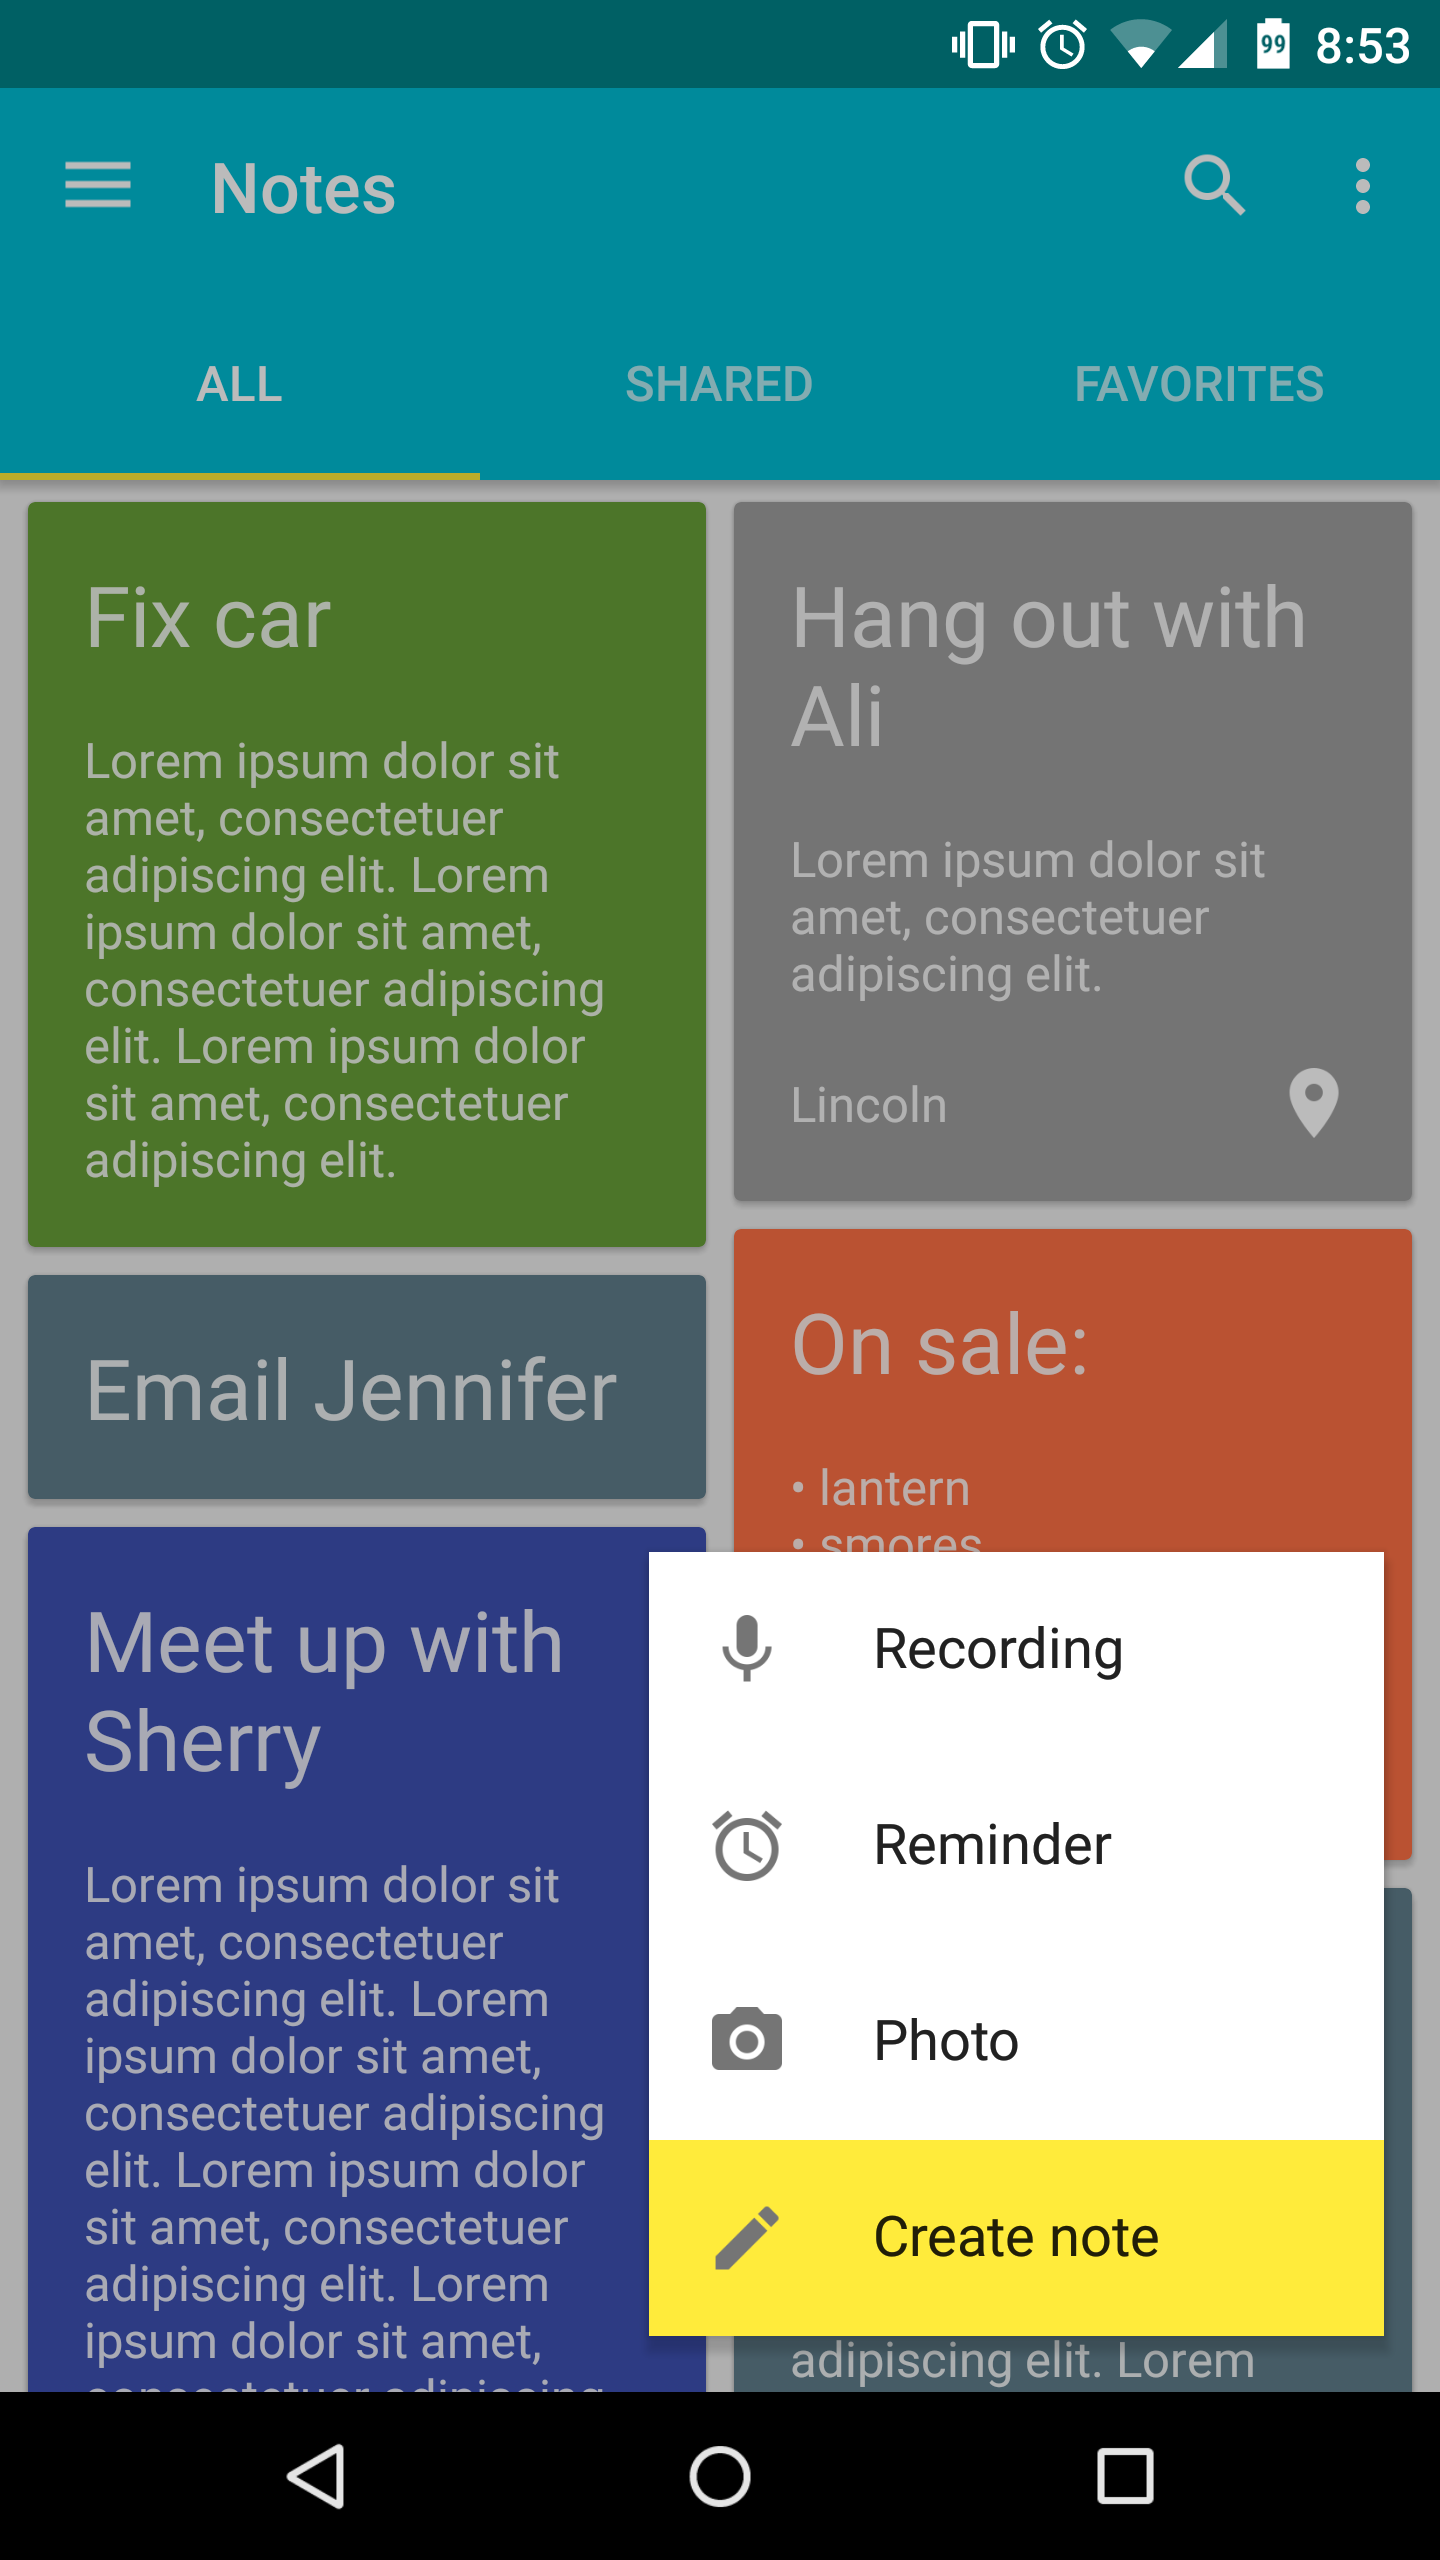
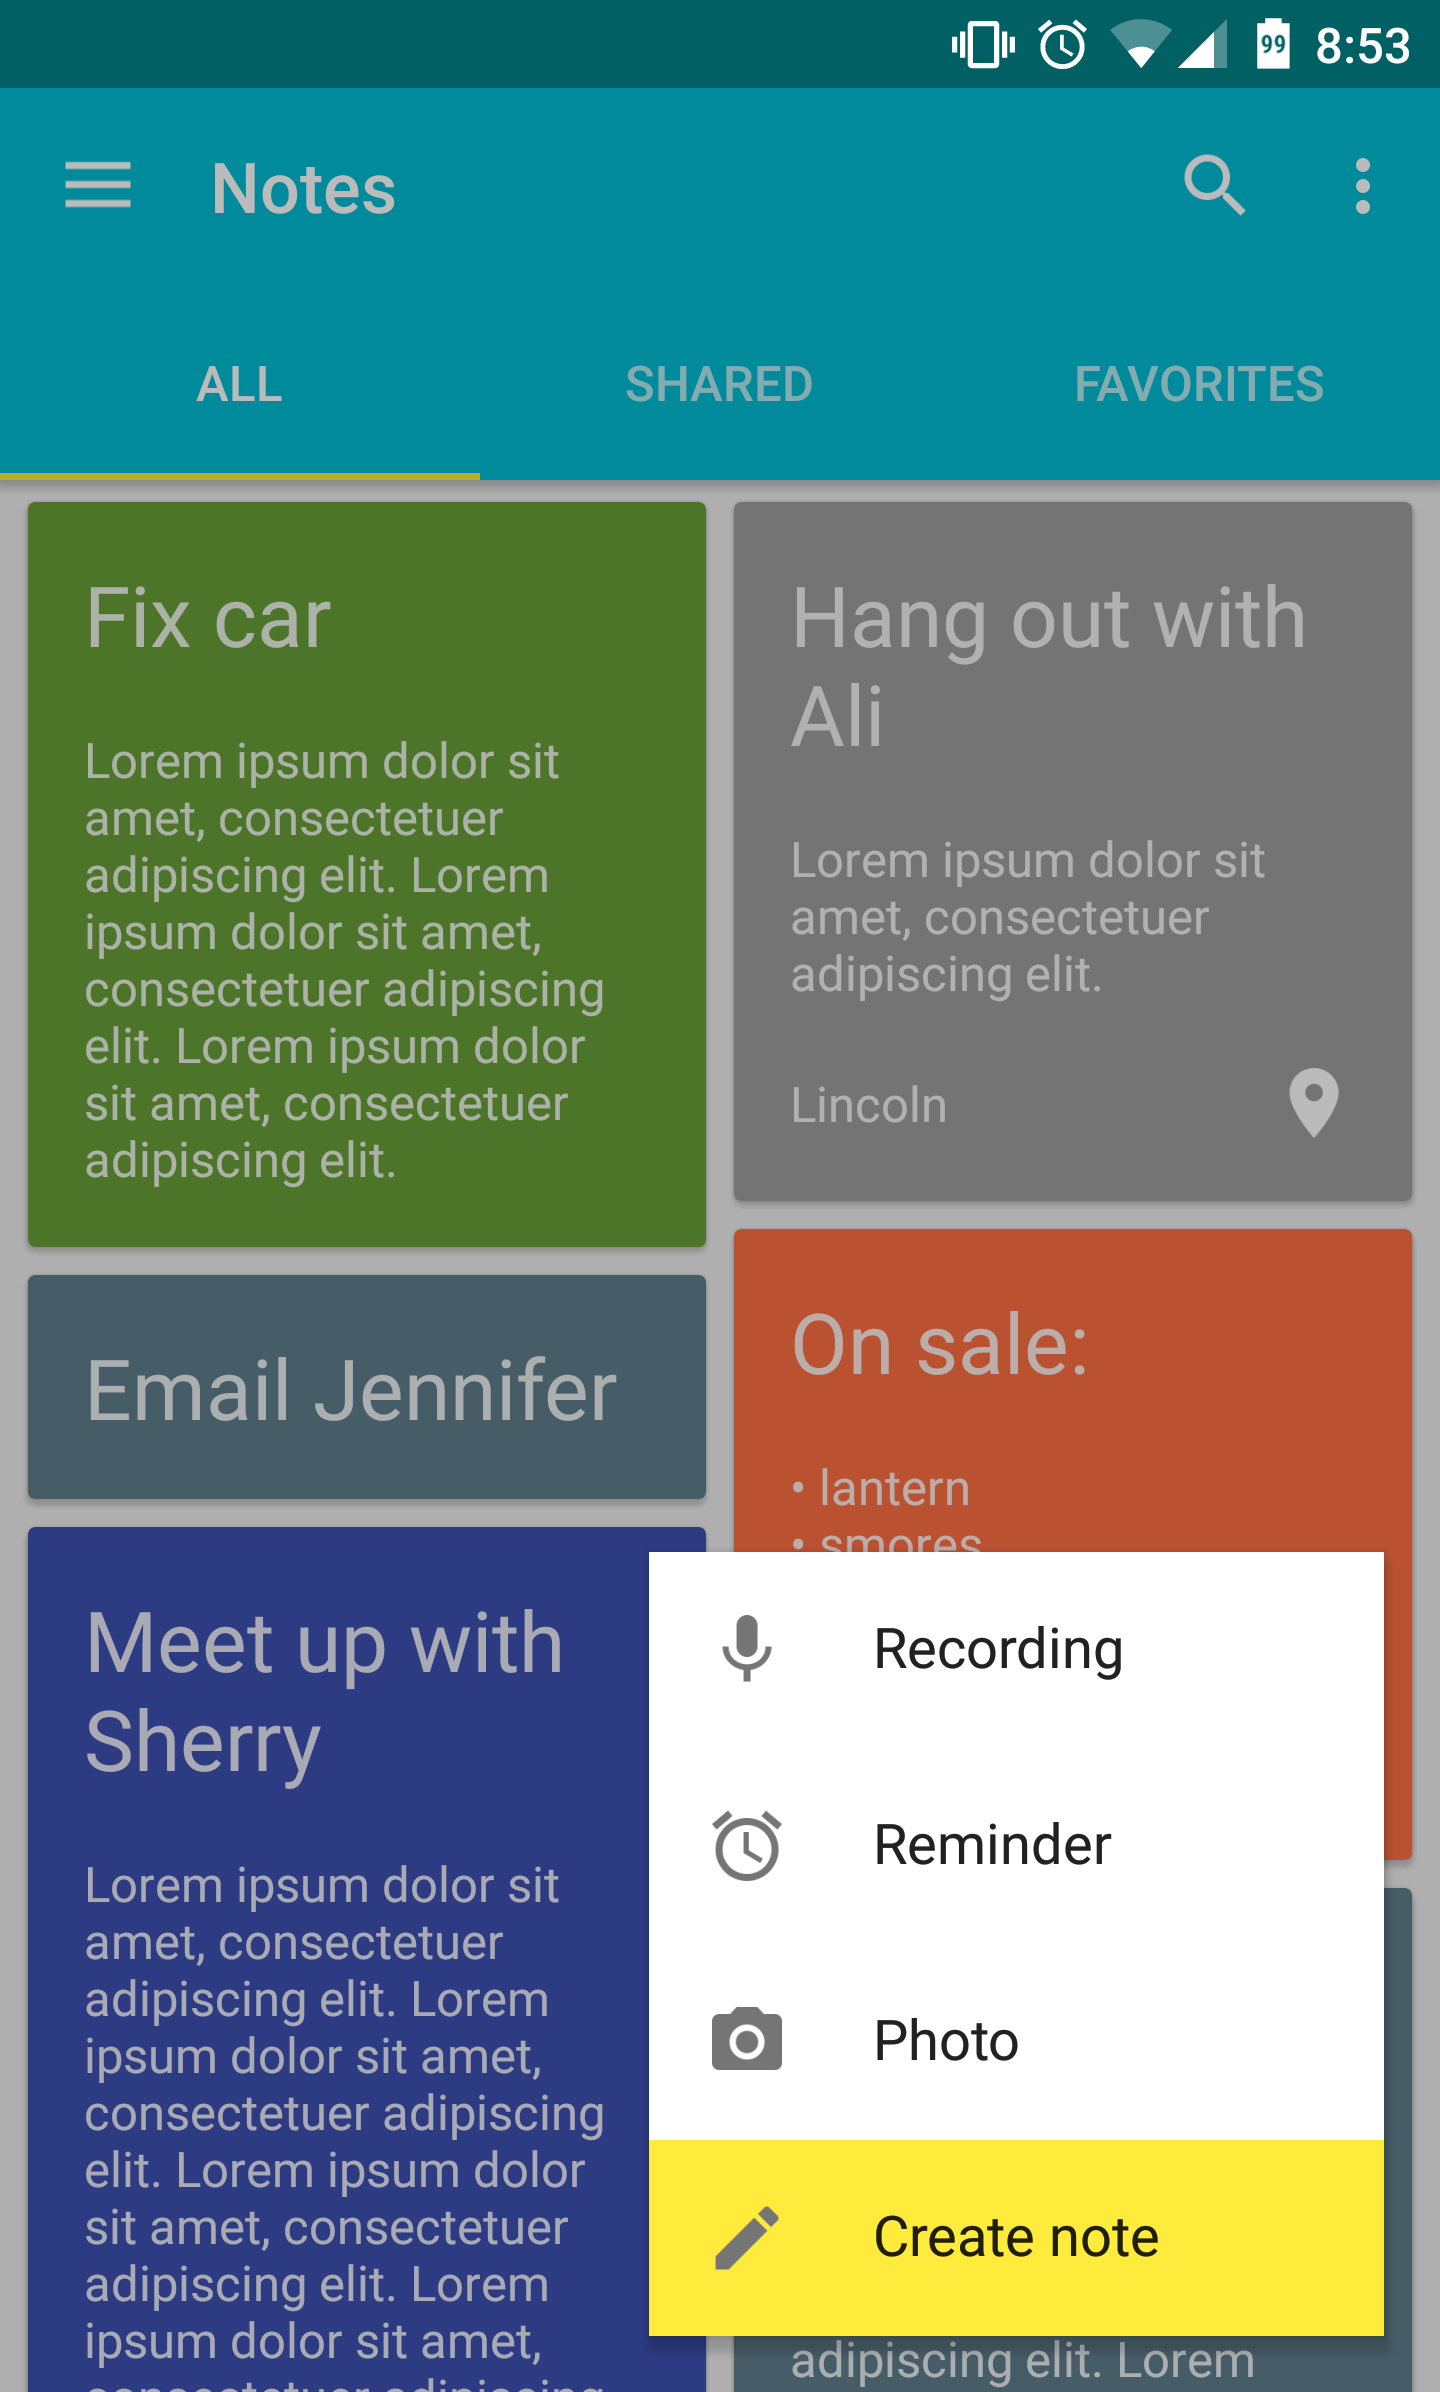
Remove navigation bar from Android screenshots

diff --git a/index.html b/index.html
@@ -44,7 +44,7 @@
 
             <div class="software-thumbnail-container">
               <a href="#" class="thumbnail software-thumbnail">
-                <img class="img-rounded" src="https://bg-monitor.com/images/overview/home.png" alt="BG Monitor">
+                <img class="img-rounded" src="images/bgmonitor/home.png" alt="BG Monitor">
                 <div class="software-thumbnail-button">
                   <span class="glyphicon glyphicon-chevron-right"></span>
                 </div>
